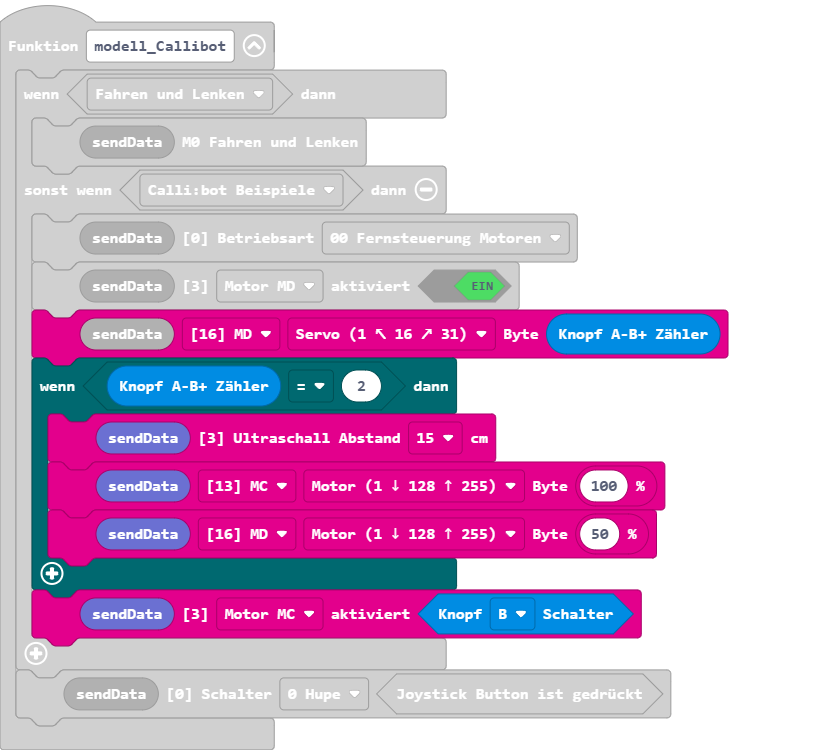
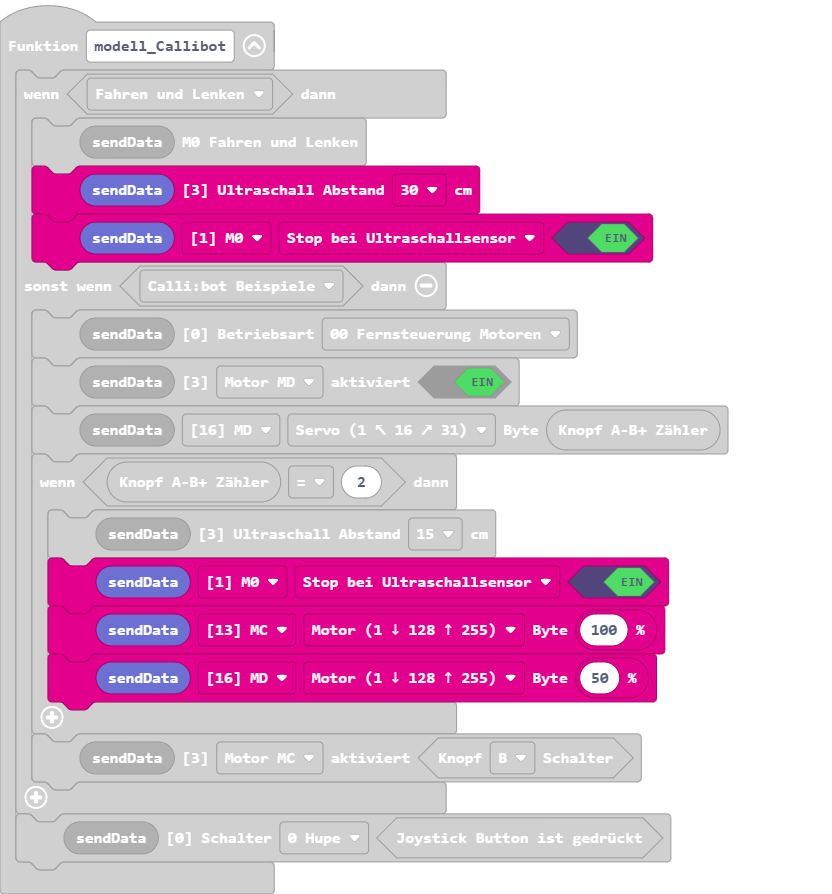
Aktualisiere main.blocks, main.ts

diff --git a/main.ts b/main.ts
@@ -1,12 +1,15 @@
 function modell_Callibot () {
     if (sender.isFunktion(sender.eFunktion.m0_s0)) {
         sender.sendM0(radio.radio_sendBuffer19())
+        radio.setAbstand(radio.radio_sendBuffer19(), radio.e3Abstand.u3)
+        radio.setSensor(radio.radio_sendBuffer19(), radio.eBufferPointer.m0, radio.eSensor.b6, true)
     } else if (sender.isFunktion(sender.eFunktion.mc_md_callibot_beispiele)) {
         radio.setBetriebsart(radio.radio_sendBuffer19(), radio.e0Betriebsart.p0)
         radio.setaktiviert(radio.radio_sendBuffer19(), radio.e3aktiviert.md, true)
         radio.setByte(radio.radio_sendBuffer19(), radio.eBufferPointer.md, radio.eBufferOffset.b1_Servo, sender.getButtonAB_Counter())
         if (sender.getButtonAB_Counter() == 2) {
             radio.setAbstand(radio.radio_sendBuffer19(), radio.e3Abstand.u1)
+            radio.setSensor(radio.radio_sendBuffer19(), radio.eBufferPointer.m0, radio.eSensor.b6, true)
             radio.setByte(radio.radio_sendBuffer19(), radio.eBufferPointer.mc, radio.eBufferOffset.b0_Motor, radio.speedPicker(100))
             radio.setByte(radio.radio_sendBuffer19(), radio.eBufferPointer.md, radio.eBufferOffset.b0_Motor, radio.speedPicker(50))
         }
